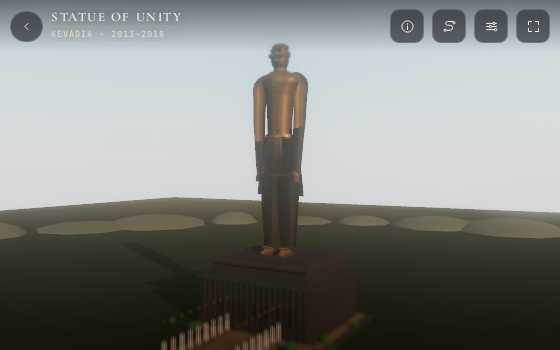
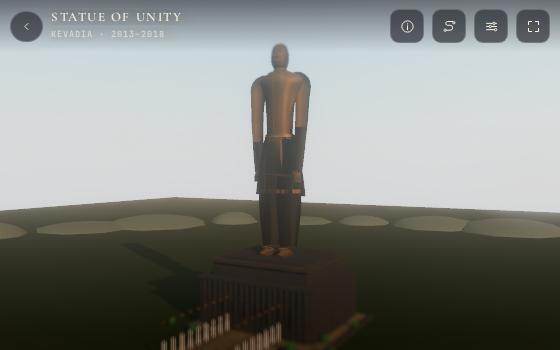
Statue of Unity: the figure rebuilt — a face, one shoulder, real legs
Called the worst model on the site, and it was: a smooth bronze mannequin.

The face was the giveaway. Every feature was placed at a fixed z, but the head
loft's front surface sits at z 6.4-7.7 depending on height — so the jaw and chin
were buried inside the head and the eyes floated off it, leaving a blank egg.
Building the face from spheres instead made a mask of blobs, which is what a
21 m head does to stuck-on primitives. The face is now carved into the head
surface as a smooth displacement: nose ridge, brow, sunken sockets, cheeks,
Patel's moustache, mouth line, chin, at 44x30.

The rivets down the chest were five 1 m spheres standing 0.9 m proud — a jacket
placket that read as buttons. Gone.

The shawl wrapped both shoulders, which is what made the figure read as a man in
an open coat. It is an uttariya over the left shoulder now, with folds that
deepen as it hangs.

Legs 8.6-2.3v with no calf became 9.6-2.4v with one, stance 8.5; the dhoti folds
go from 0.085 to 0.15 with a rolled hem band; the bronze is patinated rather than
brass.

Still stylised in the body: the kurta has no cloth breaks, the arms meet the
shoulder in a step, the hands are mittens. Next job on this page.

Changed region(s): [[0.425, 0.2, 0.5768, 0.6286], [0.4554, 0.5143, 0.4857, 0.6286], [0.4554, 0.1143, 0.5161, 0.1714]]

diff --git a/assets/js/monuments/statue-of-unity.js b/assets/js/monuments/statue-of-unity.js
@@ -87,8 +87,8 @@ export default {
       c.color.setHex(col); c.metalness = metal; c.roughness = rough;
       return c;
     };
-    const B = patina('bronze', 0xb08a52, 0.62, 0.46);    // the figure
-    const C = patina('bronze', 0xc49b62, 0.55, 0.40);    // the shawl, a shade lighter so it reads as cloth
+    const B = patina('bronze', 0xa8854e, 0.56, 0.52);    // the figure: patinated bronze, not brass
+    const C = patina('bronze', 0xb08a56, 0.50, 0.50);    // the shawl, a shade lighter so it reads as cloth
     const DK = 'dark';
     const H = 182, BASE = 58;              // figure height, plinth top
     const Y = (t) => BASE + H * t;
@@ -108,9 +108,9 @@ export default {
     };
 
     // torso: half-width, half-depth, forward offset of the section centre
-    const TA = [[0.38, 10.8], [0.47, 12.1], [0.53, 11.7], [0.58, 10.7], [0.64, 11.0],
-      [0.70, 11.6], [0.755, 12.7], [0.79, 14.8], [0.815, 17.2], [0.836, 16.8],
-      [0.852, 13.4], [0.862, 9.8], [0.872, 6.0]];
+    const TA = [[0.38, 11.4], [0.47, 12.8], [0.53, 12.3], [0.58, 11.4], [0.64, 11.8],
+      [0.70, 12.6], [0.755, 14.2], [0.79, 16.6], [0.815, 19.3], [0.836, 18.8],
+      [0.852, 14.6], [0.862, 10.4], [0.872, 6.2]];
     const TB = [[0.38, 9.6], [0.47, 10.6], [0.53, 10.4], [0.58, 10.0], [0.64, 10.3],
       [0.70, 10.6], [0.755, 11.0], [0.79, 11.4], [0.815, 11.4], [0.836, 10.8],
       [0.852, 9.4], [0.862, 8.2], [0.872, 5.4]];
@@ -122,18 +122,18 @@ export default {
        there is no tube and no joint — the radius varies continuously and
        the top of the sweep is buried in the shoulder. */
     const ARM = [ // t, x, z, radius
-      [0.860, 11.6, -0.6, 0.35],
-      [0.850, 15.6, -0.5, 2.5],
-      [0.835, 18.2, -0.3, 4.2],
-      [0.815, 19.8, -0.1, 5.8],
-      [0.790, 20.4, 0.3, 6.2],
-      [0.750, 19.7, 0.8, 6.0],
-      [0.700, 20.0, 1.4, 5.4],
-      [0.640, 19.9, 2.0, 5.2],
-      [0.560, 19.1, 2.5, 4.6],
-      [0.480, 18.3, 3.0, 4.2],
-      [0.430, 17.8, 3.3, 3.9],
-      [0.395, 17.3, 3.6, 3.5]
+      [0.860, 12.4, -0.6, 0.35],
+      [0.850, 17.0, -0.5, 2.6],
+      [0.835, 20.0, -0.3, 4.4],
+      [0.815, 21.8, -0.1, 6.0],
+      [0.790, 22.5, 0.3, 6.4],
+      [0.750, 21.8, 0.8, 6.2],
+      [0.700, 22.0, 1.4, 5.6],
+      [0.640, 21.8, 2.0, 5.4],
+      [0.560, 20.9, 2.5, 4.8],
+      [0.480, 20.0, 3.0, 4.4],
+      [0.430, 19.4, 3.3, 4.0],
+      [0.395, 18.8, 3.6, 3.6]
     ];
 
     /* ==================================================================== *
@@ -241,8 +241,8 @@ export default {
         for (let j = 0; j <= NUd; j++) {
           const a = (j / NUd) * Math.PI * 2;
           // pleats: eight folds down the front, deepening towards the hem
-          const pl = (0.020 + 0.085 * v) * Math.cos(8 * a + 0.4) +
-            (0.012 + 0.045 * v) * Math.cos(16 * a - 1.1);
+          const pl = (0.030 + 0.150 * v) * Math.cos(8 * a + 0.4) +
+            (0.018 + 0.075 * v) * Math.cos(16 * a - 1.1);
           const r = 1 + pl;
           const yy = Y(t) - dip * (0.9 + 0.7 * Math.cos(a));
           pos.push(Math.cos(a) * A * r, yy, Math.sin(a) * Bd * r);
@@ -263,6 +263,32 @@ export default {
       return g;
     };
     add(B, dhotiGeo(), 0, 0, 0);
+    // the hem: a band of rolled cloth at the bottom edge
+    {
+      const pos = [], uv = [], idx = [];
+      const N = 64;
+      for (let i = 0; i <= 3; i++) {
+        const t = 0.302 + i * 0.006;
+        const A = lerpTab(DH.map(([tt, a]) => [tt, a]), t);
+        const Bd = lerpTab(DH.map(([tt, a, b]) => [tt, b]), t);
+        for (let j = 0; j <= N; j++) {
+          const a = (j / N) * Math.PI * 2;
+          const rr = 1.02 + 0.02 * Math.cos(8 * a);
+          pos.push(Math.cos(a) * A * rr, Y(t), Math.sin(a) * Bd * rr);
+          uv.push(j / N, i / 3);
+        }
+      }
+      for (let i = 0; i < 3; i++) for (let j = 0; j < N; j++) {
+        const a = i * (N + 1) + j, b = a + N + 1;
+        idx.push(a, b, a + 1, a + 1, b, b + 1);
+      }
+      const g = new T3.BufferGeometry();
+      g.setAttribute('position', new T3.Float32BufferAttribute(pos, 3));
+      g.setAttribute('uv', new T3.Float32BufferAttribute(uv, 2));
+      g.setIndex(idx);
+      g.computeVertexNormals();
+      add(B, g, 0, 0, 0);
+    }
     // eight pleats standing proud of the dhoti's front
     for (let f = -4; f <= 4; f++) {
       if (f === 0) continue;
@@ -323,12 +349,6 @@ export default {
     add(B, band(0.567, 1.6, 0.8, B), 0, 0, 0);          // jacket hem
     add(B, band(0.838, 1.4, 0.8, B), 0, 0, 0);          // shoulder seam
     add(B, band(0.856, 2.2, 1.2, B, 26), 0, 0, 0);      // stand collar
-    // the placket, buttons down the front of the jacket
-    for (let i = 0; i < 5; i++) {
-      const t = 0.60 + i * 0.05;
-      const p = surf(t, Math.PI / 2);
-      add(C, sph(1.0, 6), 0, p[1], p[2] + 0.9, { sz: 0.5 });
-    }
     // the placket: a raised strip from the collar to the jacket hem
     {
       const pos = [], uv = [], idx = [];
@@ -358,17 +378,20 @@ export default {
     /* One patch swept on the body grid: the top edge runs round the
        shoulders, the bottom edge hangs to the waist at the front and stops
        high at the back, so the cloth reads as a draped uttariya. */
-    // how far the shawl hangs at a given bearing: long at the two front
-    // falls, short over the back
+    /* An uttariya is worn over one shoulder, not both. It goes over Patel's
+       left shoulder (+x), across the back and under the right arm; the right
+       shoulder stays bare. Wrapping both shoulders was what made the figure
+       read as a man in an open coat. */
+    const FALL = Math.PI / 2 - 0.50;      // the front-left fall
     const dropAt = (ang) => {
-      let d = Math.abs(((ang - Math.PI / 2) % (Math.PI * 2) + Math.PI * 3) % (Math.PI * 2) - Math.PI);
-      const k = Math.min(1, Math.max(0, (d - 0.34) / 1.16));
-      return 0.575 + (0.848 - 0.575) * (k * k * (3 - 2 * k));
+      const d = Math.abs(ang - FALL);
+      const k = Math.min(1, Math.max(0, d / 1.9));
+      return 0.845 - (0.845 - 0.60) * (1 - k * k * (3 - 2 * k));
     };
     const shawlGeo = (off, thick) => {
       const NUu = 52, NVv = 16;
       const pos = [], uv = [], idx = [];
-      const a0 = Math.PI / 2 + 0.34, a1 = Math.PI / 2 + Math.PI * 2 - 0.34;
+      const a0 = FALL, a1 = -2.40;
       for (let i = 0; i <= NVv; i++) {
         const v = i / NVv;
         for (let j = 0; j <= NUu; j++) {
@@ -404,7 +427,7 @@ export default {
     // the two front edges of the shawl, closing the cloth. These used to be
     // flat 1 m boards hanging beside the arms, which is what read as "flaps";
     // the fold now thins and curls inward as it falls.
-    for (const ang of [Math.PI / 2 + 0.34, Math.PI / 2 + Math.PI * 2 - 0.34]) {
+    for (const ang of [FALL, -2.40]) {
       const NVv = 14;
       const pos = [], idx = [], uv = [];
       for (let v = 0; v <= NVv; v++) {
@@ -436,13 +459,13 @@ export default {
     const legGeo = (sd) => {
       const NVl = 22, NUl = 22;
       const pos = [], uv = [], idx = [];
-      const cx = sd * 8.1;
+      const cx = sd * 8.5;
       for (let i = 0; i <= NVl; i++) {
         const v = i / NVl;
         const t = 0.375 - 0.33 * v;               // up inside the hem, down to the ankle
         // thicker than they were: at 182 m the legs are ~15 m across at the
         // thigh, and the old 7.1-2.1v taper read as two sticks under a skirt
-        const r = 8.6 - 2.3 * v + 1.5 * Math.sin(Math.PI * v * 1.05) * (1 - v);
+        const r = 9.6 - 2.4 * v + 2.0 * Math.sin(Math.PI * v * 1.08) * (1 - v * 0.5);
         for (let j = 0; j <= NUl; j++) {
           const a = (j / NUl) * Math.PI * 2;
           const rr = r * (1 + 0.05 * Math.cos(5 * a + sd));
@@ -532,41 +555,83 @@ export default {
 
     /* ---- the hands: fingers folded against the thighs -------------------- */
     [-1, 1].forEach((sd) => {
-      add(B, sph(3.6, 14), sd * 17.2, Y(0.383), 4.2, { sy: 1.25, sz: 0.72 });
+      add(B, sph(3.8, 14), sd * 18.7, Y(0.383), 4.2, { sy: 1.25, sz: 0.72 });
       for (let f = 0; f < 4; f++) {
-        add(B, cyl(0.9, 1.05, 5.4, 5), sd * (16.0 + f * 1.4), Y(0.368), 5.4, { rx: 0.05 });
+        add(B, cyl(0.95, 1.1, 5.6, 5), sd * (17.5 + f * 1.4), Y(0.368), 5.4, { rx: 0.05 });
       }
-      add(B, sph(1.5, 8), sd * 14.6, Y(0.392), 5.6, { sy: 1.4, sz: 0.6 });
+      add(B, sph(1.6, 8), sd * 16.0, Y(0.392), 5.6, { sy: 1.4, sz: 0.6 });
     });
 
     /* ---- the head, lofted from the neck up ------------------------------ */
+    // t, halfWidth, halfDepth, forward — hoisted so the face can be placed
+    // against the surface instead of at fixed depths inside it
+    // a full skull with a rounded crown; the first pass tapered to a point
+    // and the head read as a bullet
+    const HEAD_LV = [
+      [0.00, 4.6, 5.4, 0.2],
+      [0.10, 5.9, 7.5, 0.9],
+      [0.26, 7.0, 8.9, 1.0],
+      [0.44, 7.3, 9.2, 0.7],
+      [0.60, 7.2, 8.9, 0.3],
+      [0.75, 6.9, 8.0, 0.0],
+      [0.88, 6.1, 6.9, -0.2],
+      [0.95, 5.0, 5.6, -0.3],
+      [1.00, 3.6, 4.0, -0.4]
+    ];
+    /* The face is carved into the head surface, not assembled out of spheres.
+       Built from separate primitives it read as a mask of blobs — bulging
+       cheeks, a bar across the brow, a slab of moustache — because a 21 m head
+       is too big for stuck-on parts to blend. Here each feature is a smooth
+       displacement of the loft along its own height and bearing: a nose ridge,
+       brow, sunken eye sockets, cheeks, Patel's moustache, a mouth line, a chin. */
+    const faceBump = (t, a) => {
+      const ax = Math.cos(a), az = Math.sin(a);
+      const front = Math.max(0, az);
+      if (front < 0.12) return 0;
+      const fx = Math.abs(ax);
+      const g = (v, c, w) => { const q = (v - c) / w; return Math.exp(-q * q); };
+      const cap = (v, w) => Math.max(0, 1 - Math.min(1, v / w));
+      let d = 0;
+      d += 1.45 * g(t, 0.615, 0.060) * cap(fx, 0.17);          // the nose ridge
+      d += 1.00 * g(t, 0.710, 0.044) * cap(fx, 0.58);          // brow
+      d -= 0.80 * g(t, 0.658, 0.038) * g(fx, 0.30, 0.14);      // eye sockets
+      d += 0.45 * g(t, 0.505, 0.075) * g(fx, 0.46, 0.22);      // cheeks
+      d += 0.95 * g(t, 0.458, 0.034) * cap(fx, 0.46);          // moustache
+      d -= 0.30 * g(t, 0.372, 0.026) * cap(fx, 0.30);          // the mouth line
+      d += 0.50 * g(t, 0.258, 0.055) * cap(fx, 0.36);          // chin
+      return d * front;
+    };
     function headGeometry() {
-      const LEVELS = [
-        // t, halfWidth, halfDepth, forward
-        [0.00, 4.4, 5.2, 0.2],
-        [0.10, 6.0, 7.4, 0.9],
-        [0.26, 7.2, 8.8, 1.0],
-        [0.44, 7.6, 9.1, 0.7],
-        [0.60, 7.5, 8.8, 0.3],
-        [0.75, 6.9, 7.9, 0.0],
-        [0.88, 5.3, 6.1, -0.2],
-        [1.00, 2.7, 3.1, -0.4]
-      ];
-      const SEG = 24, HH = 21.5;
+      const SEG = 44, ROWS = 30, HH = 21.5;
+      const at = (f) => {
+        const L = HEAD_LV;
+        let i = 1;
+        while (i < L.length - 1 && L[i][0] < f) i++;
+        const a = L[i - 1], b = L[i];
+        const u = (f - a[0]) / (b[0] - a[0]);
+        return [a[1] + (b[1] - a[1]) * u, a[2] + (b[2] - a[2]) * u, a[3] + (b[3] - a[3]) * u];
+      };
       const pos = [], uv = [], idx = [];
-      for (let i = 0; i < LEVELS.length; i++) {
-        const [t, hw, hd, fw] = LEVELS[i];
+      for (let i = 0; i <= ROWS; i++) {
+        const t = i / ROWS;
+        const [hw, hd, fw] = at(t);
         for (let j = 0; j <= SEG; j++) {
           const a = (j / SEG) * Math.PI * 2;
           const cx = Math.cos(a), cz = Math.sin(a);
           const front = Math.max(0, cz);
-          const x = cx * hw;
-          const z = cz * hd * (1 - 0.26 * front * front) + fw * front;
+          let x = cx * hw;
+          let z = cz * hd * (1 - 0.26 * front * front) + fw * front;
+          const b = faceBump(t, a);
+          if (b !== 0) {
+            const len = Math.hypot(x, z) || 1;
+            x += (x / len) * b;
+            z += (z / len) * b;
+          }
           pos.push(x, t * HH, z);
           uv.push(j / SEG, t);
         }
       }
-      for (let i = 0; i < LEVELS.length - 1; i++) {
+      for (let i = 0; i < ROWS; i++) {
         for (let j = 0; j < SEG; j++) {
           const a = i * (SEG + 1) + j, b = a + SEG + 1;
           idx.push(a, b, a + 1, a + 1, b, b + 1);
@@ -579,25 +644,14 @@ export default {
       g.computeVertexNormals();
       return g;
     }
+
     const HY = Y(0.868) + 2.4;           // 219, crown at 240
     add(B, cyl(5.8, 8.4, 13.0, 16), 0, HY - 6.0, -0.4, { sz: 0.94 });   // neck
     add(B, headGeometry(), 0, HY, 0);
     const hh = (f) => HY + 21.5 * f;
-    // the face: brow, eyes, nose, moustache, chin, ears
-    add(B, sph(6.6, 16), 0, hh(0.42), 2.4, { sy: 0.62, sz: 0.95 });       // jaw
-    add(B, sph(3.7, 12), 0, hh(0.28), 5.6, { sy: 0.74, sz: 1.0 });        // chin
-    add(B, box(11.2, 1.5, 2.2), 0, hh(0.70), 7.0);                        // brow
-    add(DK, sph(1.5, 8), -3.4, hh(0.66), 7.6, { sy: 0.6 });               // eyes
-    add(DK, sph(1.5, 8), 3.4, hh(0.66), 7.6, { sy: 0.6 });
-    add(B, cone(1.8, 5.0, 8), 0, hh(0.56), 8.9, { rx: Math.PI / 2 });     // nose
-    add(B, box(9.8, 1.6, 1.9), 0, hh(0.44), 8.0, { rx: 0.12 });           // moustache
-    add(B, sph(1.5, 8), -4.7, hh(0.45), 7.5, { sx: 1.3, sy: 0.7 });
-    add(B, sph(1.5, 8), 4.7, hh(0.45), 7.5, { sx: 1.3, sy: 0.7 });
-    add(B, sph(3.1, 10), -4.9, hh(0.50), 5.5, { sy: 0.8 });               // cheekbones
-    add(B, sph(3.1, 10), 4.9, hh(0.50), 5.5, { sy: 0.8 });
-    [-1, 1].forEach((sd) => add(B, sph(2.5, 8), sd * 8.2, hh(0.56), -0.8, { sx: 0.55, sy: 1.3 }));
-    add(B, sph(7.8, 18), 0, hh(0.86), -0.9, { sy: 0.5, sz: 0.9 });        // hair
-    add(B, sph(2.5, 8), 0, hh(0.84), 3.4, { sy: 0.5 });
+    // the ears are the only feature the loft cannot carry, since they sit off
+    // the side of the head
+    [-1, 1].forEach((sd) => add(B, sph(1.9, 8), sd * 7.0, hh(0.56), -1.5, { sx: 0.42, sy: 1.3, sz: 0.8 }));
 
     /* ==================================================================== *
      * the plinth: 58 m of terrace, podium and platform

diff --git a/monuments/statue-of-unity.html b/monuments/statue-of-unity.html
@@ -8,8 +8,8 @@
 <meta name="theme-color" content="#b8b2a4">
 <meta name="author" content="Dr Sohil Momin">
 <link rel="icon" href="../assets/img/favicon.svg" type="image/svg+xml">
-<link rel="stylesheet" href="../assets/css/fonts.css?v=99f54d899f">
-<link rel="stylesheet" href="../assets/css/monument.css?v=99f54d899f">
+<link rel="stylesheet" href="../assets/css/fonts.css?v=5fd8f3723f">
+<link rel="stylesheet" href="../assets/css/monument.css?v=5fd8f3723f">
 <meta property="og:type" content="website">
 <meta property="og:title" content="Statue of Unity — 3D miniature · INDIA">
 <meta property="og:description" content="At 182 metres, the world’s tallest statue: Sardar Vallabhbhai Patel in bronze, facing the Narmada dam.">
@@ -31,11 +31,11 @@
 <div id="app"></div>
 <noscript><div class="noscript">This page renders Statue of Unity as a live 3D model and needs JavaScript and WebGL. You can still read about the monument on <a href="https://en.wikipedia.org/wiki/Statue_of_Unity">Wikipedia</a>.</div></noscript>
 
-<script src="../assets/js/index-data.js?v=99f54d899f"></script>
+<script src="../assets/js/index-data.js?v=5fd8f3723f"></script>
 <script>window.MONUMENT_DATA = {"name": "Statue of Unity", "deva": "एकता की प्रतिमा", "place": "Kevadia", "state": "Gujarat", "era": "Modern · 2013–2018", "period": "2013–2018", "style": "Contemporary monumental bronze", "unesco": "—", "wikipedia": "https://en.wikipedia.org/wiki/Statue_of_Unity", "history": ["The Statue of Unity stands on the island of Sadhu Bet in the Narmada near Kevadia, Gujarat, facing the Sardar Sarovar dam. At 182 metres it is the tallest statue in the world, dedicated to Sardar Vallabhbhai Patel, the first deputy prime minister of India and the man who brought the princely states into the Union.", "It was announced in 2010, designed by the sculptor Ram V. Sutar and built by Larsen & Toubro between 2013 and 2018. The figure is a steel frame clad in bronze panels, about 1,700 tonnes of bronze over 25,000 tonnes of steel and concrete, with a viewing gallery at 153 metres that holds 200 people at a time.", "The statue was unveiled on 31 October 2018, Patel’s birthday. Around it the state has built a memorial garden, a museum, a valley of flowers and a memorial to the Sardar’s life, and the whole complex is reached by a road and a boat across the reservoir."], "facts": [{"k": "Unveiled", "v": "31 October 2018"}, {"k": "Height", "v": "182 m — tallest statue in the world"}, {"k": "Sculptor", "v": "Ram V. Sutar"}, {"k": "Built by", "v": "Larsen & Toubro, 2013–2018"}, {"k": "Viewing gallery", "v": "At 153 m"}, {"k": "Setting", "v": "Sadhu Bet, Narmada, Gujarat"}], "links": [{"label": "Wikipedia", "href": "https://en.wikipedia.org/wiki/Statue_of_Unity"}, {"label": "Gujarat tourism", "href": "https://www.gujarattourism.com/"}], "image": {"file": "Statue_of_Unity.jpg", "artist": "Snehrashmi", "license": "CC BY-SA 4.0", "licenseUrl": "https://creativecommons.org/licenses/by-sa/4.0", "page": "https://commons.wikimedia.org/wiki/File:Statue_of_Unity.jpg", "src": "assets/img/statue-of-unity.jpg"}};</script>
 <script type="module">
-  import { boot } from '../assets/js/monument-engine.js?v=99f54d899f';
-  import monument from '../assets/js/monuments/statue-of-unity.js?v=99f54d899f';
+  import { boot } from '../assets/js/monument-engine.js?v=5fd8f3723f';
+  import monument from '../assets/js/monuments/statue-of-unity.js?v=5fd8f3723f';
   boot(monument);
 </script>
 </body>

diff --git a/HANDOFF.md b/HANDOFF.md
@@ -234,11 +234,37 @@ building. Ranked by how far it is from reading as itself:
 | 6 | Mahabodhi | curved shikhara; the real spire is a straight tapering brick tower | todo |
 | 7 | India Gate / Gateway of India | both read plain: no inscription band, canopy, pools | todo |
 | 8 | Meenakshi | towers read as striped office blocks at distance | todo |
-| 9 | Statue of Unity | default view reads dark and small | todo |
+| 9 | Statue of Unity | **rebuilt this pass** — face sculpted into the head, one-shoulder shawl, legs and dhoti; still stylised in the body | partly |
 
 Clean: Taj, Qutub Minar, Charminar, Mysore Palace, Victoria Memorial,
 Mehrangarh, Rani ki Vav, Sanchi, Lotus, Shore, Konark, Amber, Jantar Mantar,
 Kandariya.
+
+---
+
+### 9. Statue of Unity — the figure rebuilt
+
+The user called this the worst model on the site, and was right: it read as a
+smooth bronze mannequin.
+
+| Fault | What was actually wrong |
+|---|---|
+| a blank egg for a face | every feature was placed at a **fixed z** while the head loft's front sits at z 6.4–7.7 by height, so the jaw and chin were buried inside the head and the eyes floated off it |
+| a mask of blobs (first fix) | a 21 m head is too big for stuck-on spheres — bulging cheeks, a bar across the brow, a slab of moustache |
+| rivets down the chest | five 1 m spheres standing 0.9 m proud: a jacket placket that read as buttons |
+| an open coat | the shawl wrapped **both** shoulders |
+| stick legs | 8.6 − 2.3v with no calf |
+| flat cloth | dhoti pleats 0.085 deep at the hem |
+
+Now: the face is **carved into the head surface** as a smooth displacement —
+nose ridge, brow, sunken sockets, cheeks, moustache, mouth line, chin — at 44×30
+resolution. The shawl is an uttariya over the left shoulder only, with folds that
+deepen as it hangs. Legs 9.6 − 2.4v with a calf, stance 8.5. Dhoti folds 0.15
+deep with a rolled hem band. Bronze is patinated (metalness 0.56), not brass.
+
+**Still not right:** the body is a smooth loft, so the kurta has no cloth breaks,
+the arms meet the shoulder in a step, and the hands are mittens. That is the next
+job on this page — drapery and anatomy, not another palette pass.
 
 ---
 
